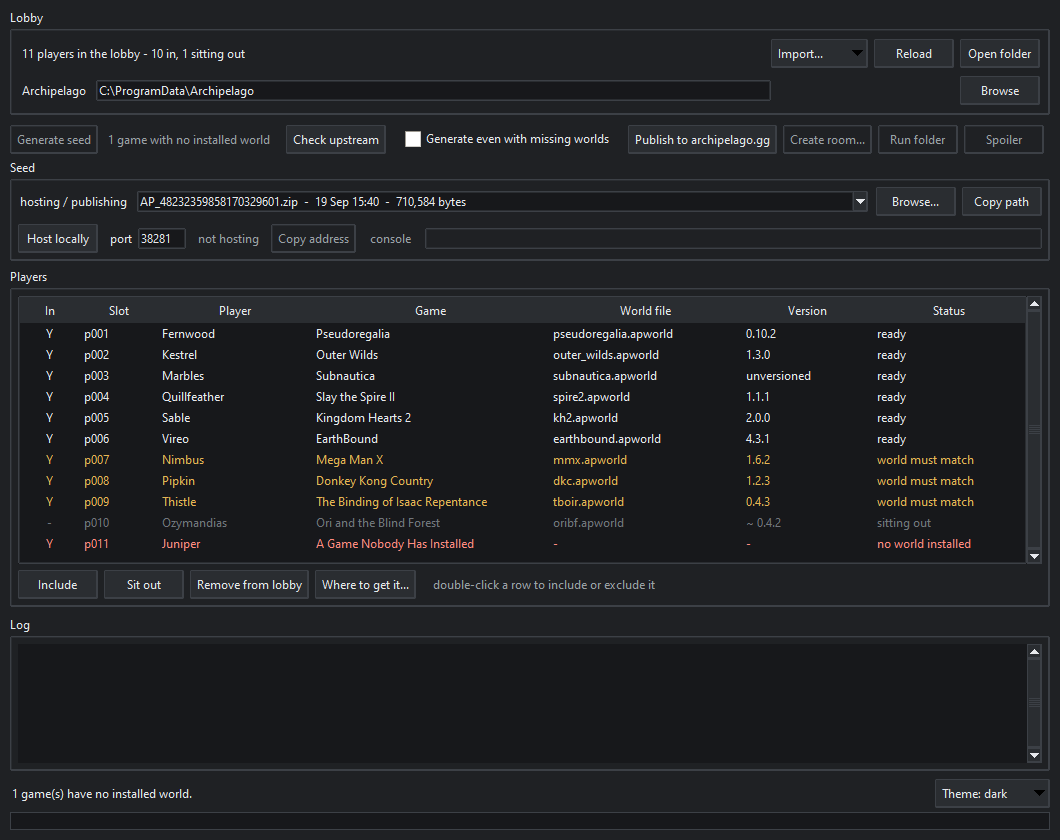
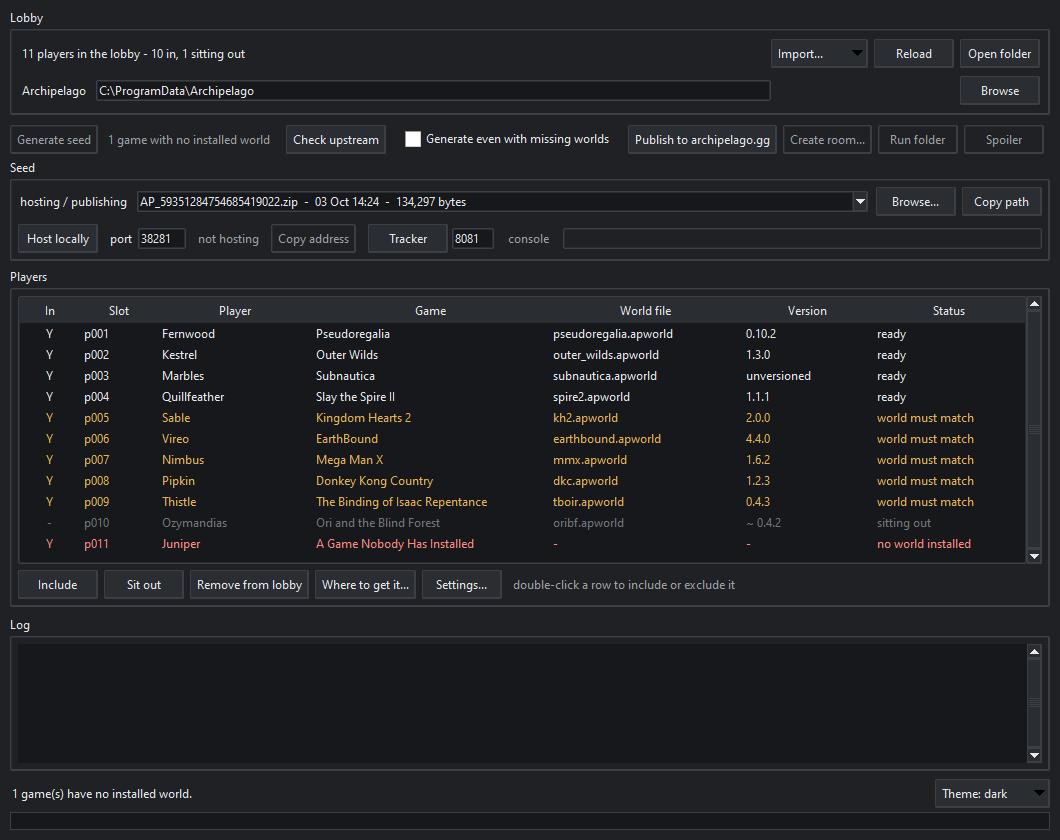
Bring the project page level with what the app actually does
The page was written before a third of the app existed. It still described
preflight as resolving against ".apworld files actually installed", which
today's change made untrue, and it never mentioned the settings forms, the
seed picker, the tracker launcher, the base-ROM report, or light and dark -
five features it now has to account for. The CLI block was missing the
seeds and links commands, and it advertised five test suites when there
are six.

The screenshots predated the settings form and the tracker, so the page
was promising two things the picture plainly did not show. Retaken from a
staged eleven-player lobby - the same invented cast, ordered so the four
statuses group the way they did before.

Two statuses changed on their own and are left as they came out: Kingdom
Hearts 2 and EarthBound now read "world must match", because detection
started counting .pyc client modules, and EarthBound resolves to the newer
custom world rather than the one Archipelago bundles.

Both the page and the README now name the Archipelago version this was
tested against, which is the thing most likely to invalidate a later build.

diff --git a/docs/index.html b/docs/index.html
@@ -139,9 +139,12 @@
   </li>
   <li>
     <b>Preflight that tells you the truth</b>
-    Every player's game is resolved against the <code>.apworld</code> files
-    actually installed, so a missing world is something you learn before
-    generating, not after.
+    Every player's game is resolved against the worlds actually installed, so a
+    missing world is something you learn before generating, not after. Both
+    shapes count: a zipped <code>.apworld</code> and the bundled worlds
+    Archipelago ships unzipped as folders, which a scan for
+    <code>*.apworld</code> alone would report as missing while they sit right
+    there in the install.
   </li>
   <li>
     <b>Dropped settings are a failure, not a footnote</b>
@@ -163,24 +166,68 @@
     claim was read from, and the games in your lobby are checked first.
   </li>
   <li>
+    <b>Edit any game's settings as a form</b>
+    Archipelago generates a documented template for every installed world, so
+    the app reads that and builds the editor from it &mdash; toggles, ranges
+    with their real bounds, and lists to pick from, each with the option's own
+    documentation. No game is special-cased, which matters when a hundred of
+    them are installed.
+  </li>
+  <li>
+    <b>One chosen seed, visibly</b>
+    The seed being hosted or published is picked from a list of every run on
+    disk, shown by name, date and size. Both destinations use that one choice
+    rather than each resolving its own idea of &ldquo;the latest&rdquo;.
+  </li>
+  <li>
     <b>Host it locally</b>
     Start the Archipelago server on this machine against the seed you just made,
     with the server console right there. Publishing to archipelago.gg stays a
     separate, deliberate step.
   </li>
+  <li>
+    <b>A tracker, launched for you</b>
+    The local tracker bridge can be started against the seed being hosted, with
+    its slots read from that run's lock rather than typed &mdash; so it cannot
+    end up watching a slot the running room does not contain. Worlds whose
+    compiled modules target a different Python are reported before launch,
+    because the dashboard would otherwise just show an empty panel.
+  </li>
+  <li>
+    <b>The files you supply yourself</b>
+    Some worlds patch a base ROM you have to own. Those are listed with whether
+    the file is actually in place, so a seed that cannot be played is something
+    you find out before generating it rather than after.
+  </li>
+  <li>
+    <b>Light and dark</b>
+    Follows the Windows setting by default, with its own window icon and a
+    desktop shortcut so it is findable in a crowded taskbar.
+  </li>
 </ul>
 
 <h2>Getting started</h2>
-<p>Windows, Python 3.10 or newer with tkinter, and an Archipelago install.</p>
+<p>
+  Windows, Python 3.10 or newer with tkinter, and an Archipelago install
+  &mdash; tested against Archipelago 0.6.8.
+</p>
 <pre><code>git clone https://github.com/vitsorg/APLobbyGen
 cd APLobbyGen
 python aplobby_gui.py</code></pre>
+<p class="muted">
+  Or <code>python make_shortcut.py --start-menu</code> to launch it from a
+  desktop shortcut with its own icon and no console window behind it.
+</p>
 
 <h3>Or from the command line</h3>
 <pre><code>python aplobby.py import folder path\to\configs   add configs to the lobby
 python aplobby.py list                            show the roster
 python aplobby.py generate                        build a seed, no network
-python aplobby.py host                            host it on this machine</code></pre>
+python aplobby.py seeds                           list seeds you can host
+python aplobby.py host                            host it on this machine
+python links.py --lobby-first                     upstreams, your games first
+python links.py --missing                         clients nobody has investigated
+python links.py --resources                       base ROMs you supply yourself</code></pre>
 
 <div class="note">
   <b>Nothing is downloaded for you.</b> The tool tells you which world file and
@@ -191,7 +238,7 @@ python aplobby.py host                            host it on this machine</code>
 
 <h2>Verification</h2>
 <p>
-  Five test suites, all offline except the one that deliberately hosts on
+  Six test suites, all offline except the one that deliberately hosts on
   loopback and connects to itself. They assert rather than print, so a silent
   pass is a real pass &mdash; including one that drives the real window with
   nobody watching.
@@ -200,7 +247,8 @@ python aplobby.py host                            host it on this machine</code>
 python selftest_sources.py   the importers, with the network stubbed
 python selftest_gui.py       drives the real window with nobody watching
 python selftest_serve.py     really starts a server, really connects to it
-python selftest_links.py     the upstream pointers and their client states</code></pre>
+python selftest_links.py     the upstream pointers and their client states
+python selftest_options.py   option templates, the settings form, config rewriting</code></pre>
 
 <h2>Licence and contributing</h2>
 <p>

diff --git a/README.md b/README.md
@@ -72,7 +72,8 @@ Generation touches the network exactly never.
 - Windows (the app shells out to `ArchipelagoGenerate.exe` and
   `ArchipelagoServer.exe`, and uses `os.startfile`)
 - Python 3.10 or newer, with tkinter - the standard python.org installer has it
-- An Archipelago install, by default `C:\ProgramData\Archipelago`
+- An Archipelago install, by default `C:\ProgramData\Archipelago` - tested
+  against 0.6.8
 
 ## Getting started
 
